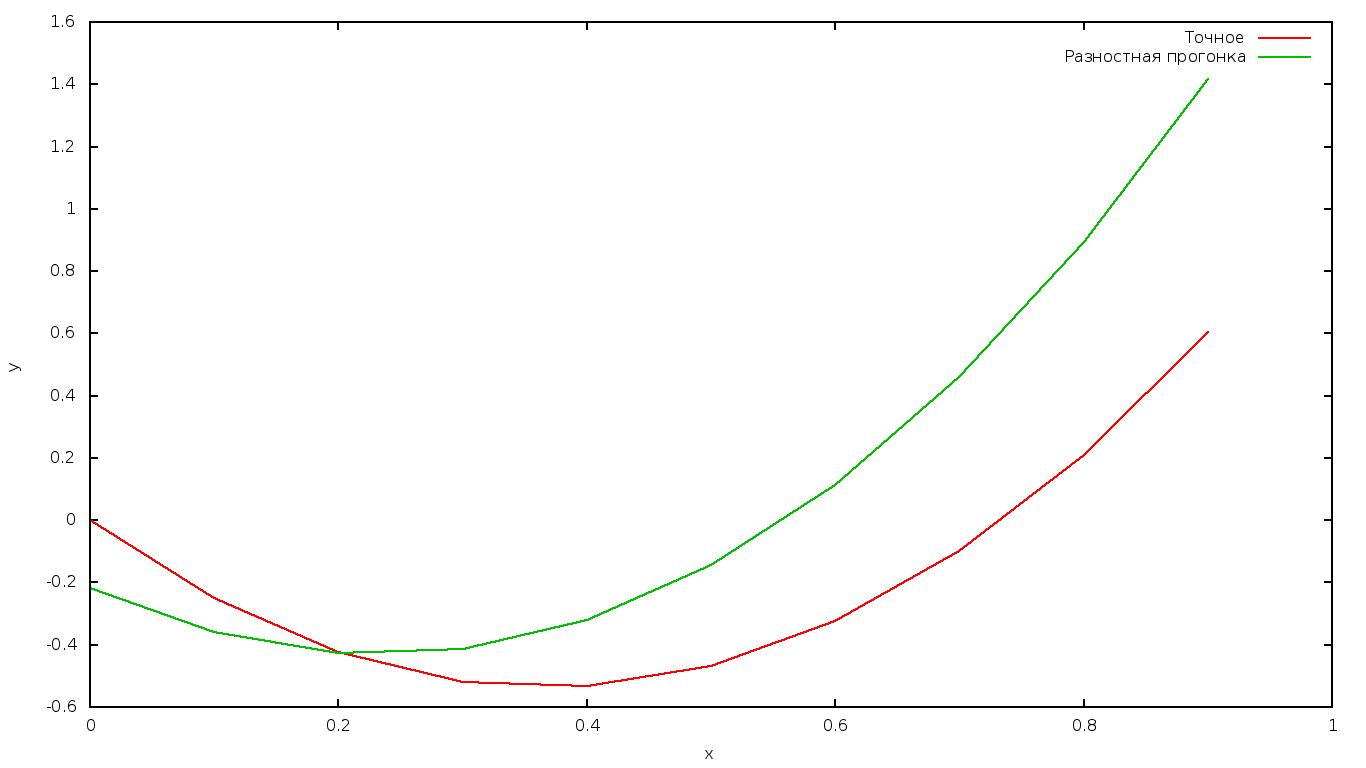
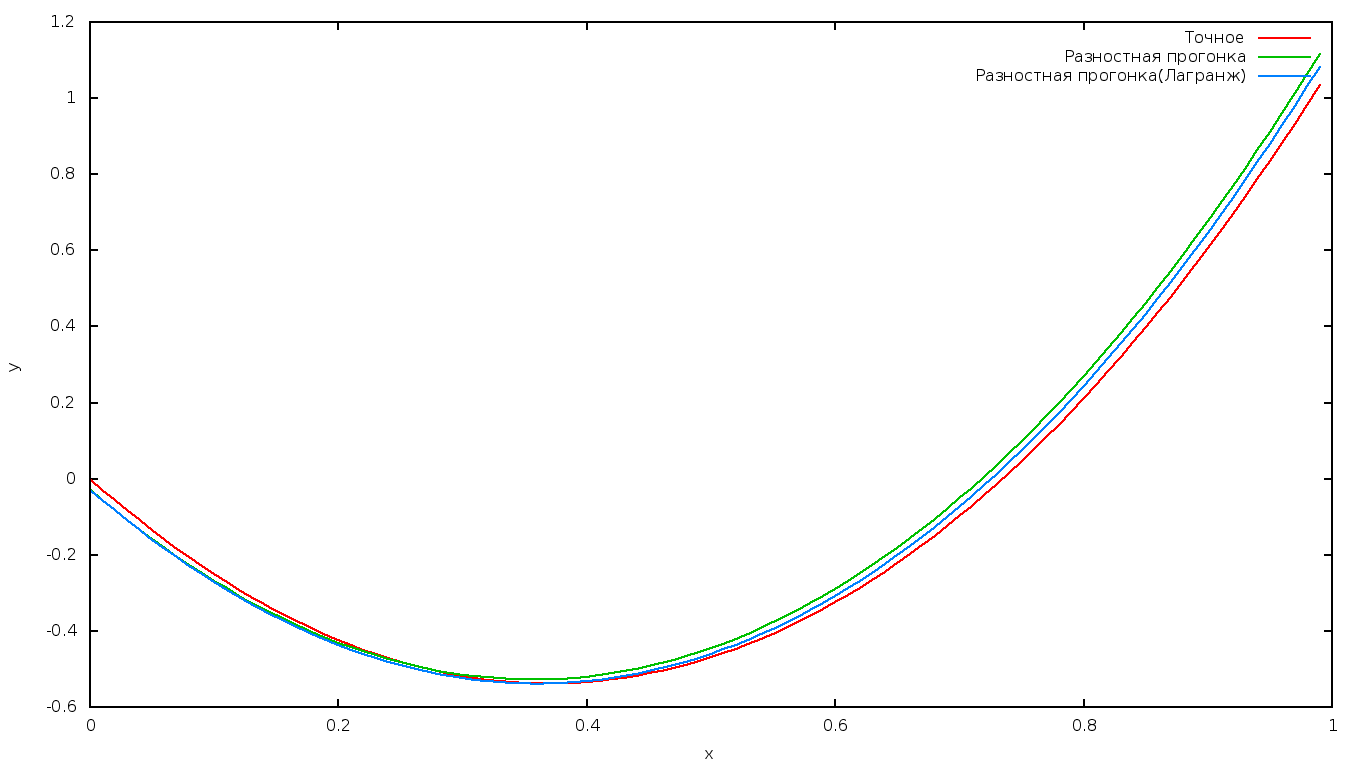
lab3 lagrange

diff --git a/lab3.cpp b/lab3.cpp
@@ -5,10 +5,14 @@
 #include <math.h>
 #include <functional>
 
+#include <vector>
+#include <memory>
+
+
 typedef double FP;
 const FP e = 2.718281828;
 
-void sweep( FP** a, FP* b, int N )
+void sweep( std::vector< std::vector< FP > >& a, std::vector< FP >& b, int N )
 {
 	FP znam; 
 
@@ -35,7 +39,7 @@ void sweep( FP** a, FP* b, int N )
 
 
 //
-void TridiagonalMatrixAlgorithm( int N, FP* solution )
+void TridiagonalMatrixAlgorithm( int N, std::vector< FP >& solution )
 {
 	FP h = 1.0 / ( FP )N;
 
@@ -50,16 +54,13 @@ void TridiagonalMatrixAlgorithm( int N, FP* solution )
 		return -e * h + h / e - 2.9 * h;
 	};
 
-	FP** A = new FP*[ N ];
-
-	FP* B = solution;
+	std::vector< std::vector< FP > > A( N, std::vector< FP >( N ) );
+	auto& B = solution;
 
 	FP xi = 0.0;
 
 	for( int i = 0; i < N - 1; i++ )
 	{
-		A[ i ] = new FP[ N ];
-
 		FP b = 2.0 + h * h;
 
 		if( i != 0 )
@@ -71,8 +72,6 @@ void TridiagonalMatrixAlgorithm( int N, FP* solution )
 		B[ i ] = di( xi );
 		xi += h;
 	}
-
-	A[ N - 1 ] = new FP[ N ];
 	
 	A[ N - 1 ][ N - 2 ] = 1.0;
 	A[ N - 1 ][ N - 1 ] = -1.0;
@@ -165,6 +164,48 @@ void Shoot( const int N, FP* yiRunge )
 
 
 //
+void TridiagonalMatrixAlgorithmLagrange( int N, std::vector< FP >& solution )
+{
+	FP h = 1.0 / ( FP )N;
+
+	auto di = [h]( FP xi )
+	{
+		FP h2 = h * h;
+		return -2.9 * xi * xi * h2 + 2.9 * xi * h2 + 7.8 * h2;
+	};
+
+	auto dn = [h]()
+	{
+		return 2.0 * h * ( e - 1.0 / e + 2.9 );
+	};
+
+	std::vector< std::vector< FP > > A( N, std::vector< FP >( N ) );
+	auto& B = solution;
+
+	FP xi = 0.0;
+
+	FP b = 2.0 + h * h;
+
+	for( int i = 0; i < N - 1; i++ )
+	{
+		if( i != 0 )
+			A[ i ][ i - 1 ] = 1.0;
+
+		A[ i ][ i ] 	= -b;
+		A[ i ][ i + 1 ] = 1.0;
+
+		B[ i ] = di( xi );
+		xi += h;
+	}
+	
+	A[ N - 1 ][ N - 2 ] = b - 4.0;
+	A[ N - 1 ][ N - 1 ] = 2.0;
+	B[ N - 1 ] = dn() - di( 1.0 - h );
+
+	sweep( A, B, N );
+}
+
+
 int main( int argc, char* argv[] )
 {
 	if( argc != 2 )
@@ -173,9 +214,11 @@ int main( int argc, char* argv[] )
 	int N = atoi( argv[ 1 ] );
 	FP h = 1.0 / ( FP )N;
 
-	FP* solution = new FP[ N ];
+	std::vector< FP > solution1( N );
+	std::vector< FP > solution2( N );
 
-	TridiagonalMatrixAlgorithm( N, solution );
+	TridiagonalMatrixAlgorithm( N, solution1 );
+	TridiagonalMatrixAlgorithmLagrange( N, solution2 );
 
 	FILE* f = fopen( "data", "w" );
 
@@ -184,7 +227,7 @@ int main( int argc, char* argv[] )
 	for( int i = 0; i < N; i++ )
 	{
 		FP y = -2.0 + exp( -xi ) + exp( xi ) - 2.9 * xi + 2.9 * xi * xi;
-		fprintf( f, "%.06f %.06f %.06f\n", xi, y, solution[ i ] );
+		fprintf( f, "%.06f %.06f %.06f %.06f\n", xi, y, solution1[ i ], solution2[ i ] );
 
 		xi += h;
 	}
